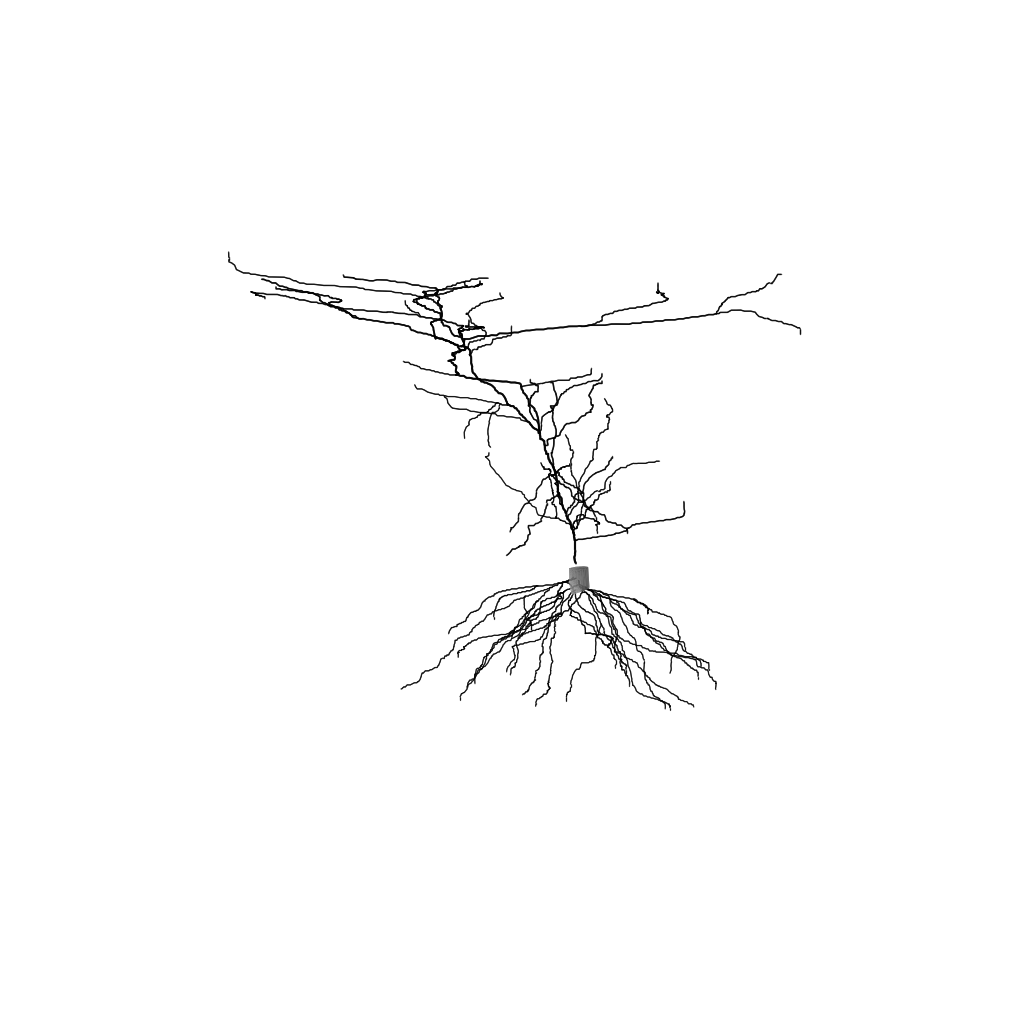
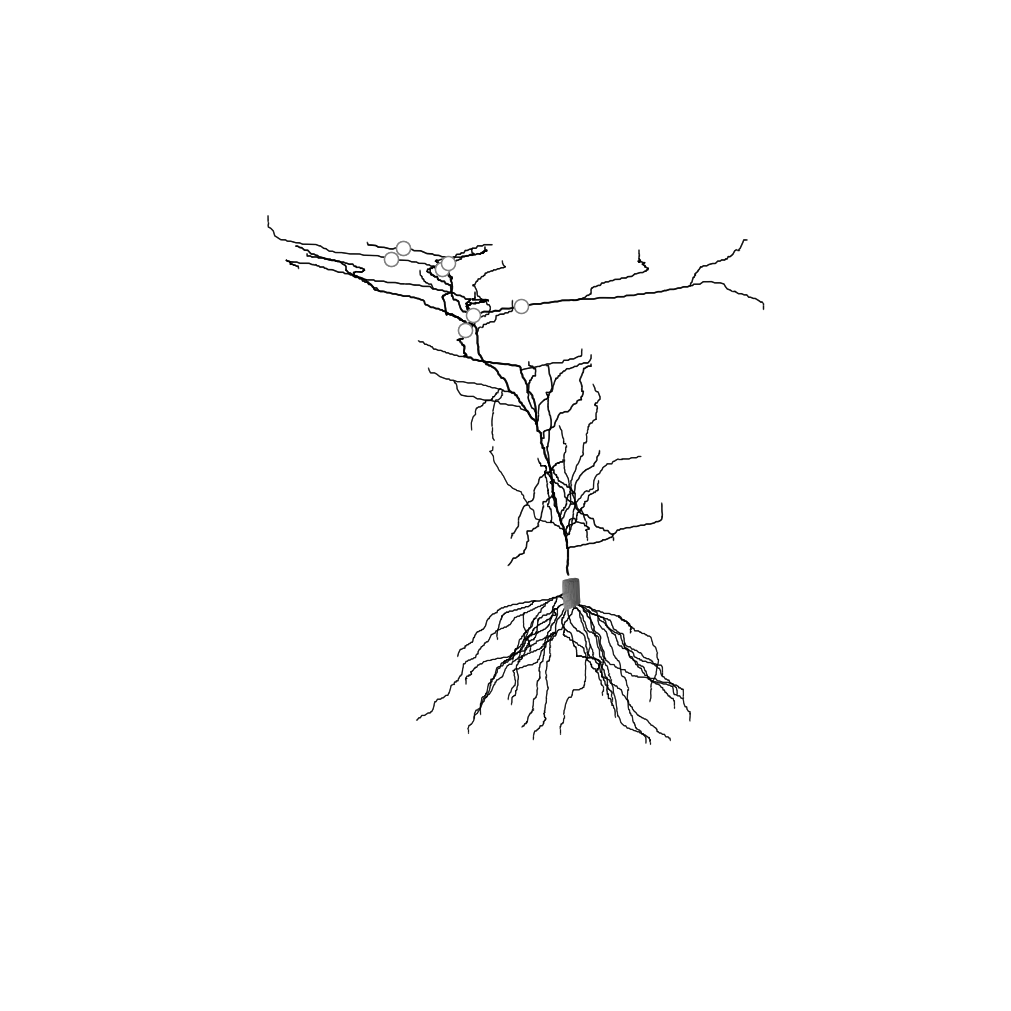
add example of annotation df

diff --git a/scripts/test.py b/scripts/test.py
@@ -1,7 +1,6 @@
 from phylogram import *
 
 hoc_file = '../example_data/example.hoc'
-
 blank_annot_df = pd.read_csv('../example_data/annot_example.csv')
 fig_blank, ax_blank = plot_morphology(hoc_file,annotation_df=blank_annot_df.dropna(),  markeredgewidth=1, markeredgecolor='grey')
 fig2, ax2 = plot_phylogram(hoc_file, annotation_df=blank_annot_df.dropna(), linewidths=0.5, edgecolors='grey',

diff --git a/phylogram/helpers.py b/phylogram/helpers.py
@@ -1,7 +1,8 @@
 # Morphology analysis and plotting
-import sys, os, re, numpy as np, pandas as pd
-
 import matplotlib
+matplotlib.use("Agg")
+
+import sys, os, re, numpy as np, pandas as pd
 from matplotlib.pyplot import cm
 from mpl_toolkits.mplot3d import proj3d
 from matplotlib.patches import FancyArrowPatch
